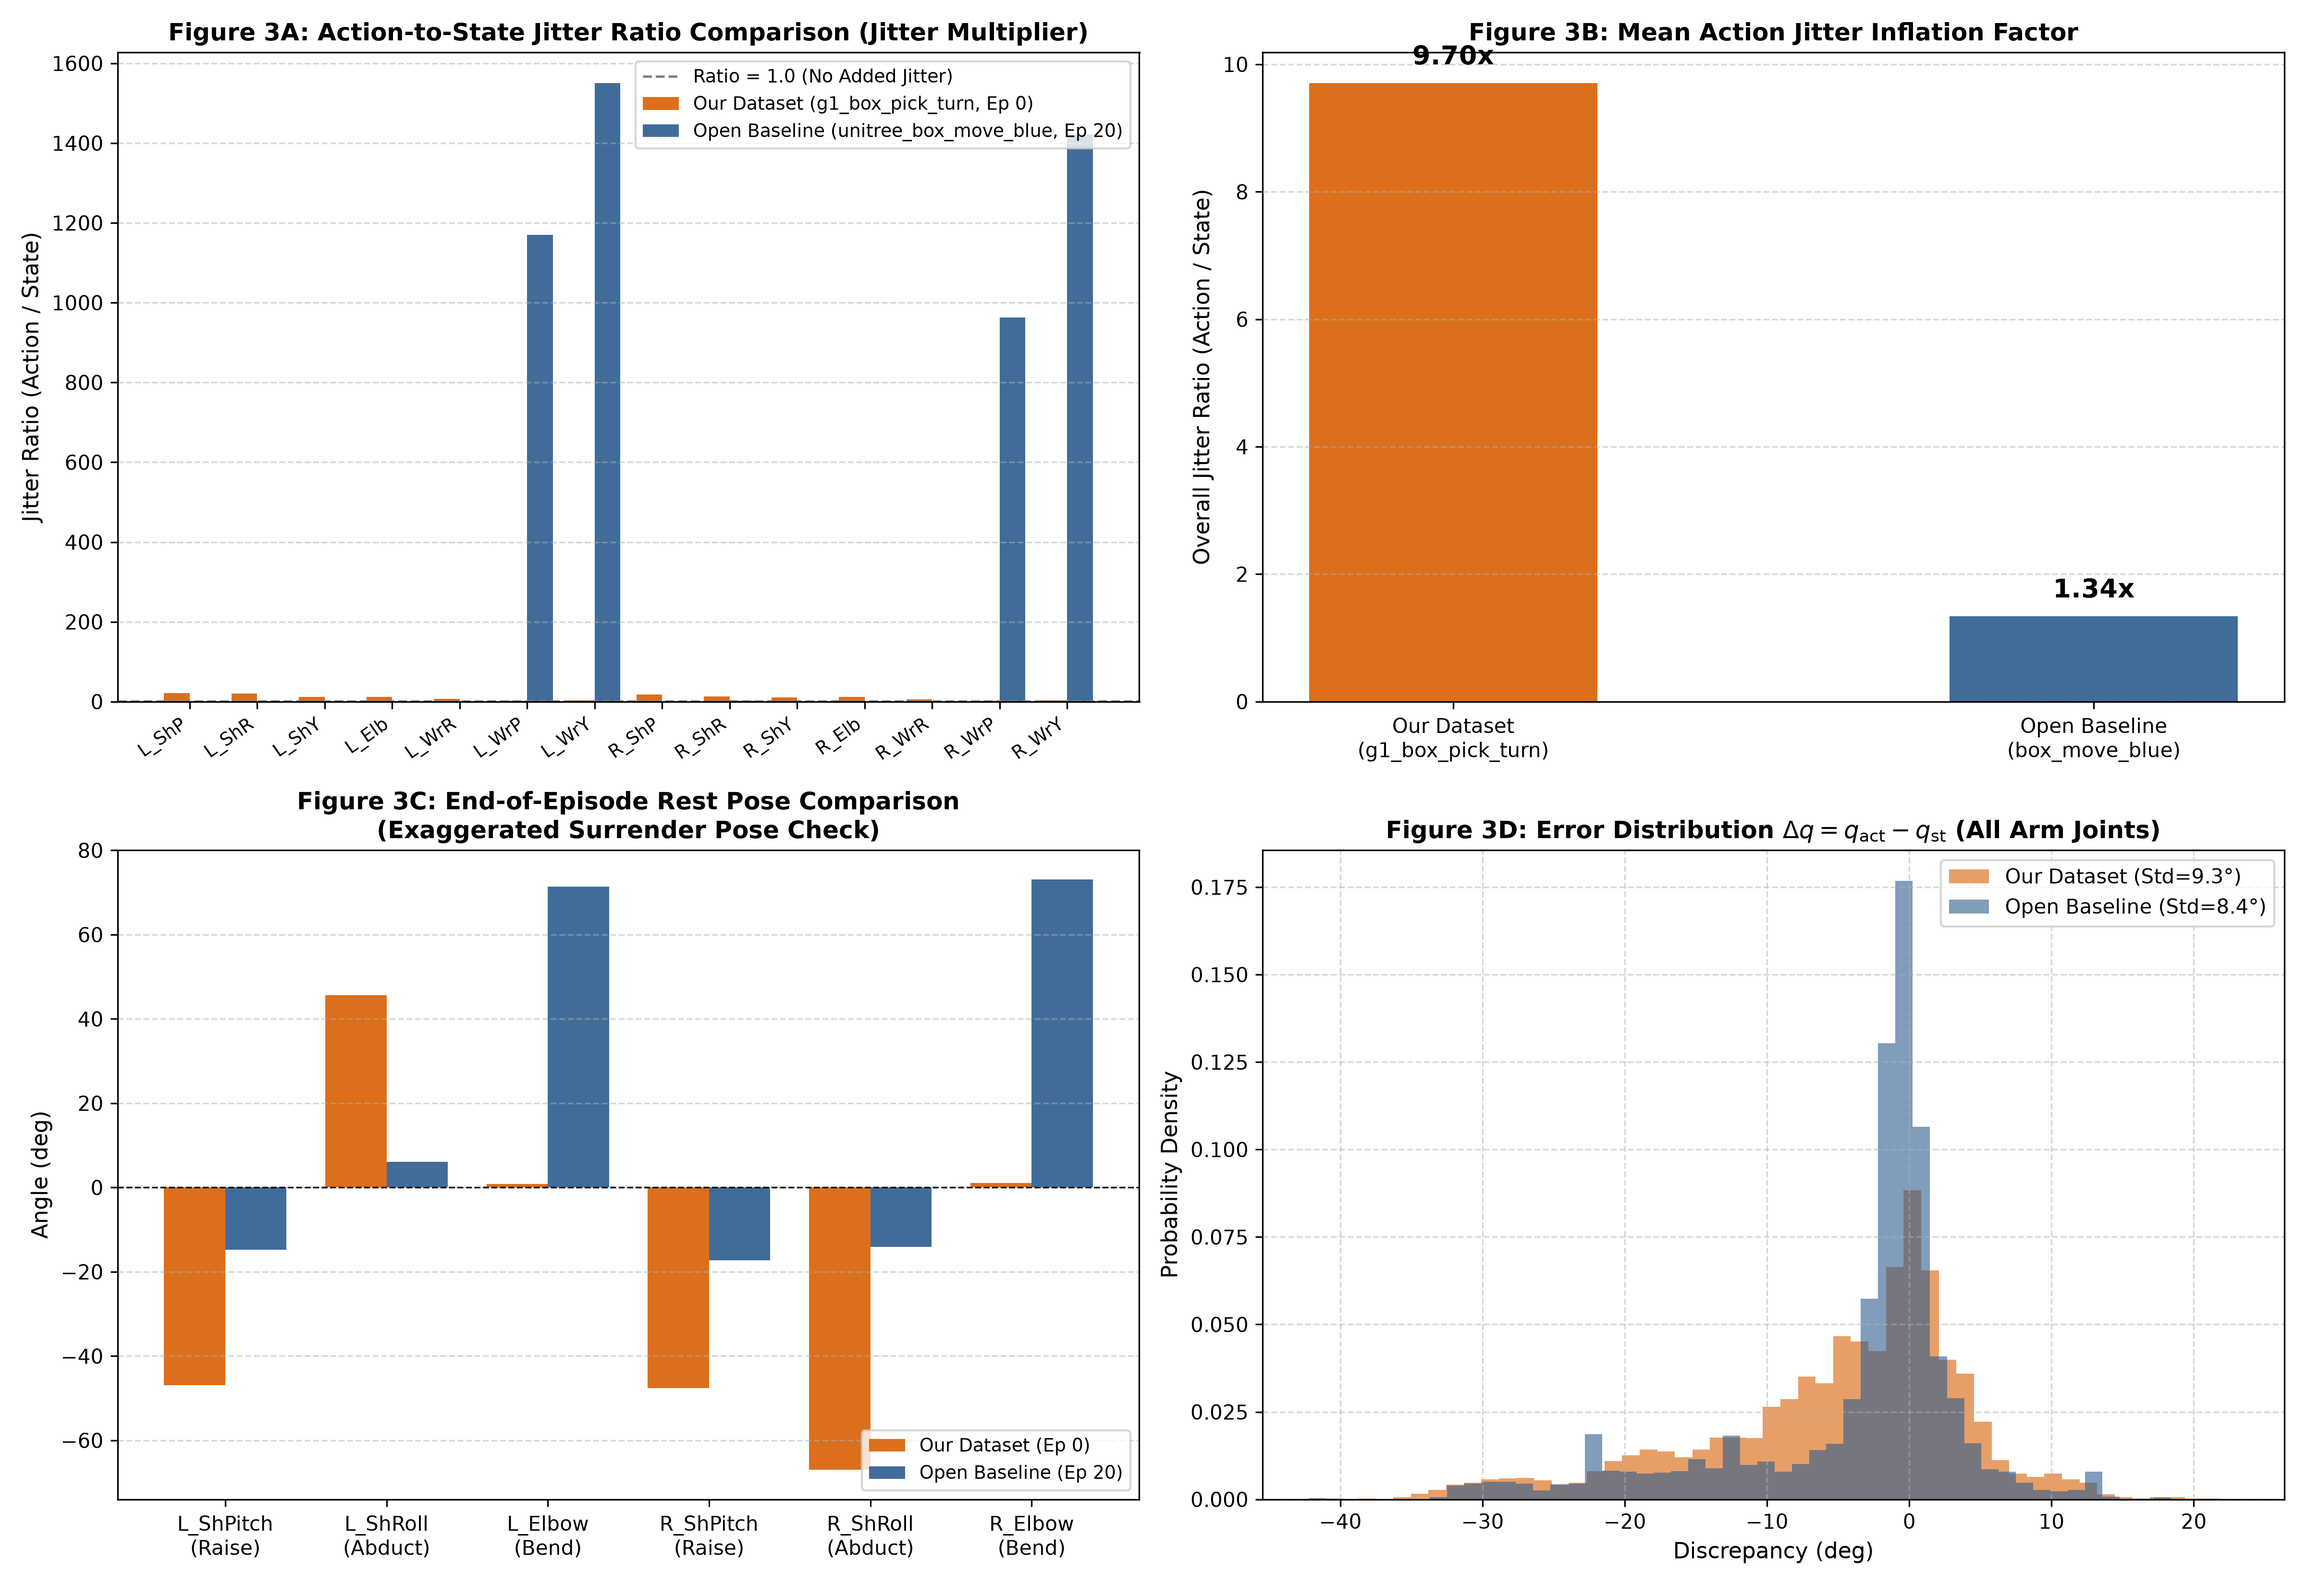
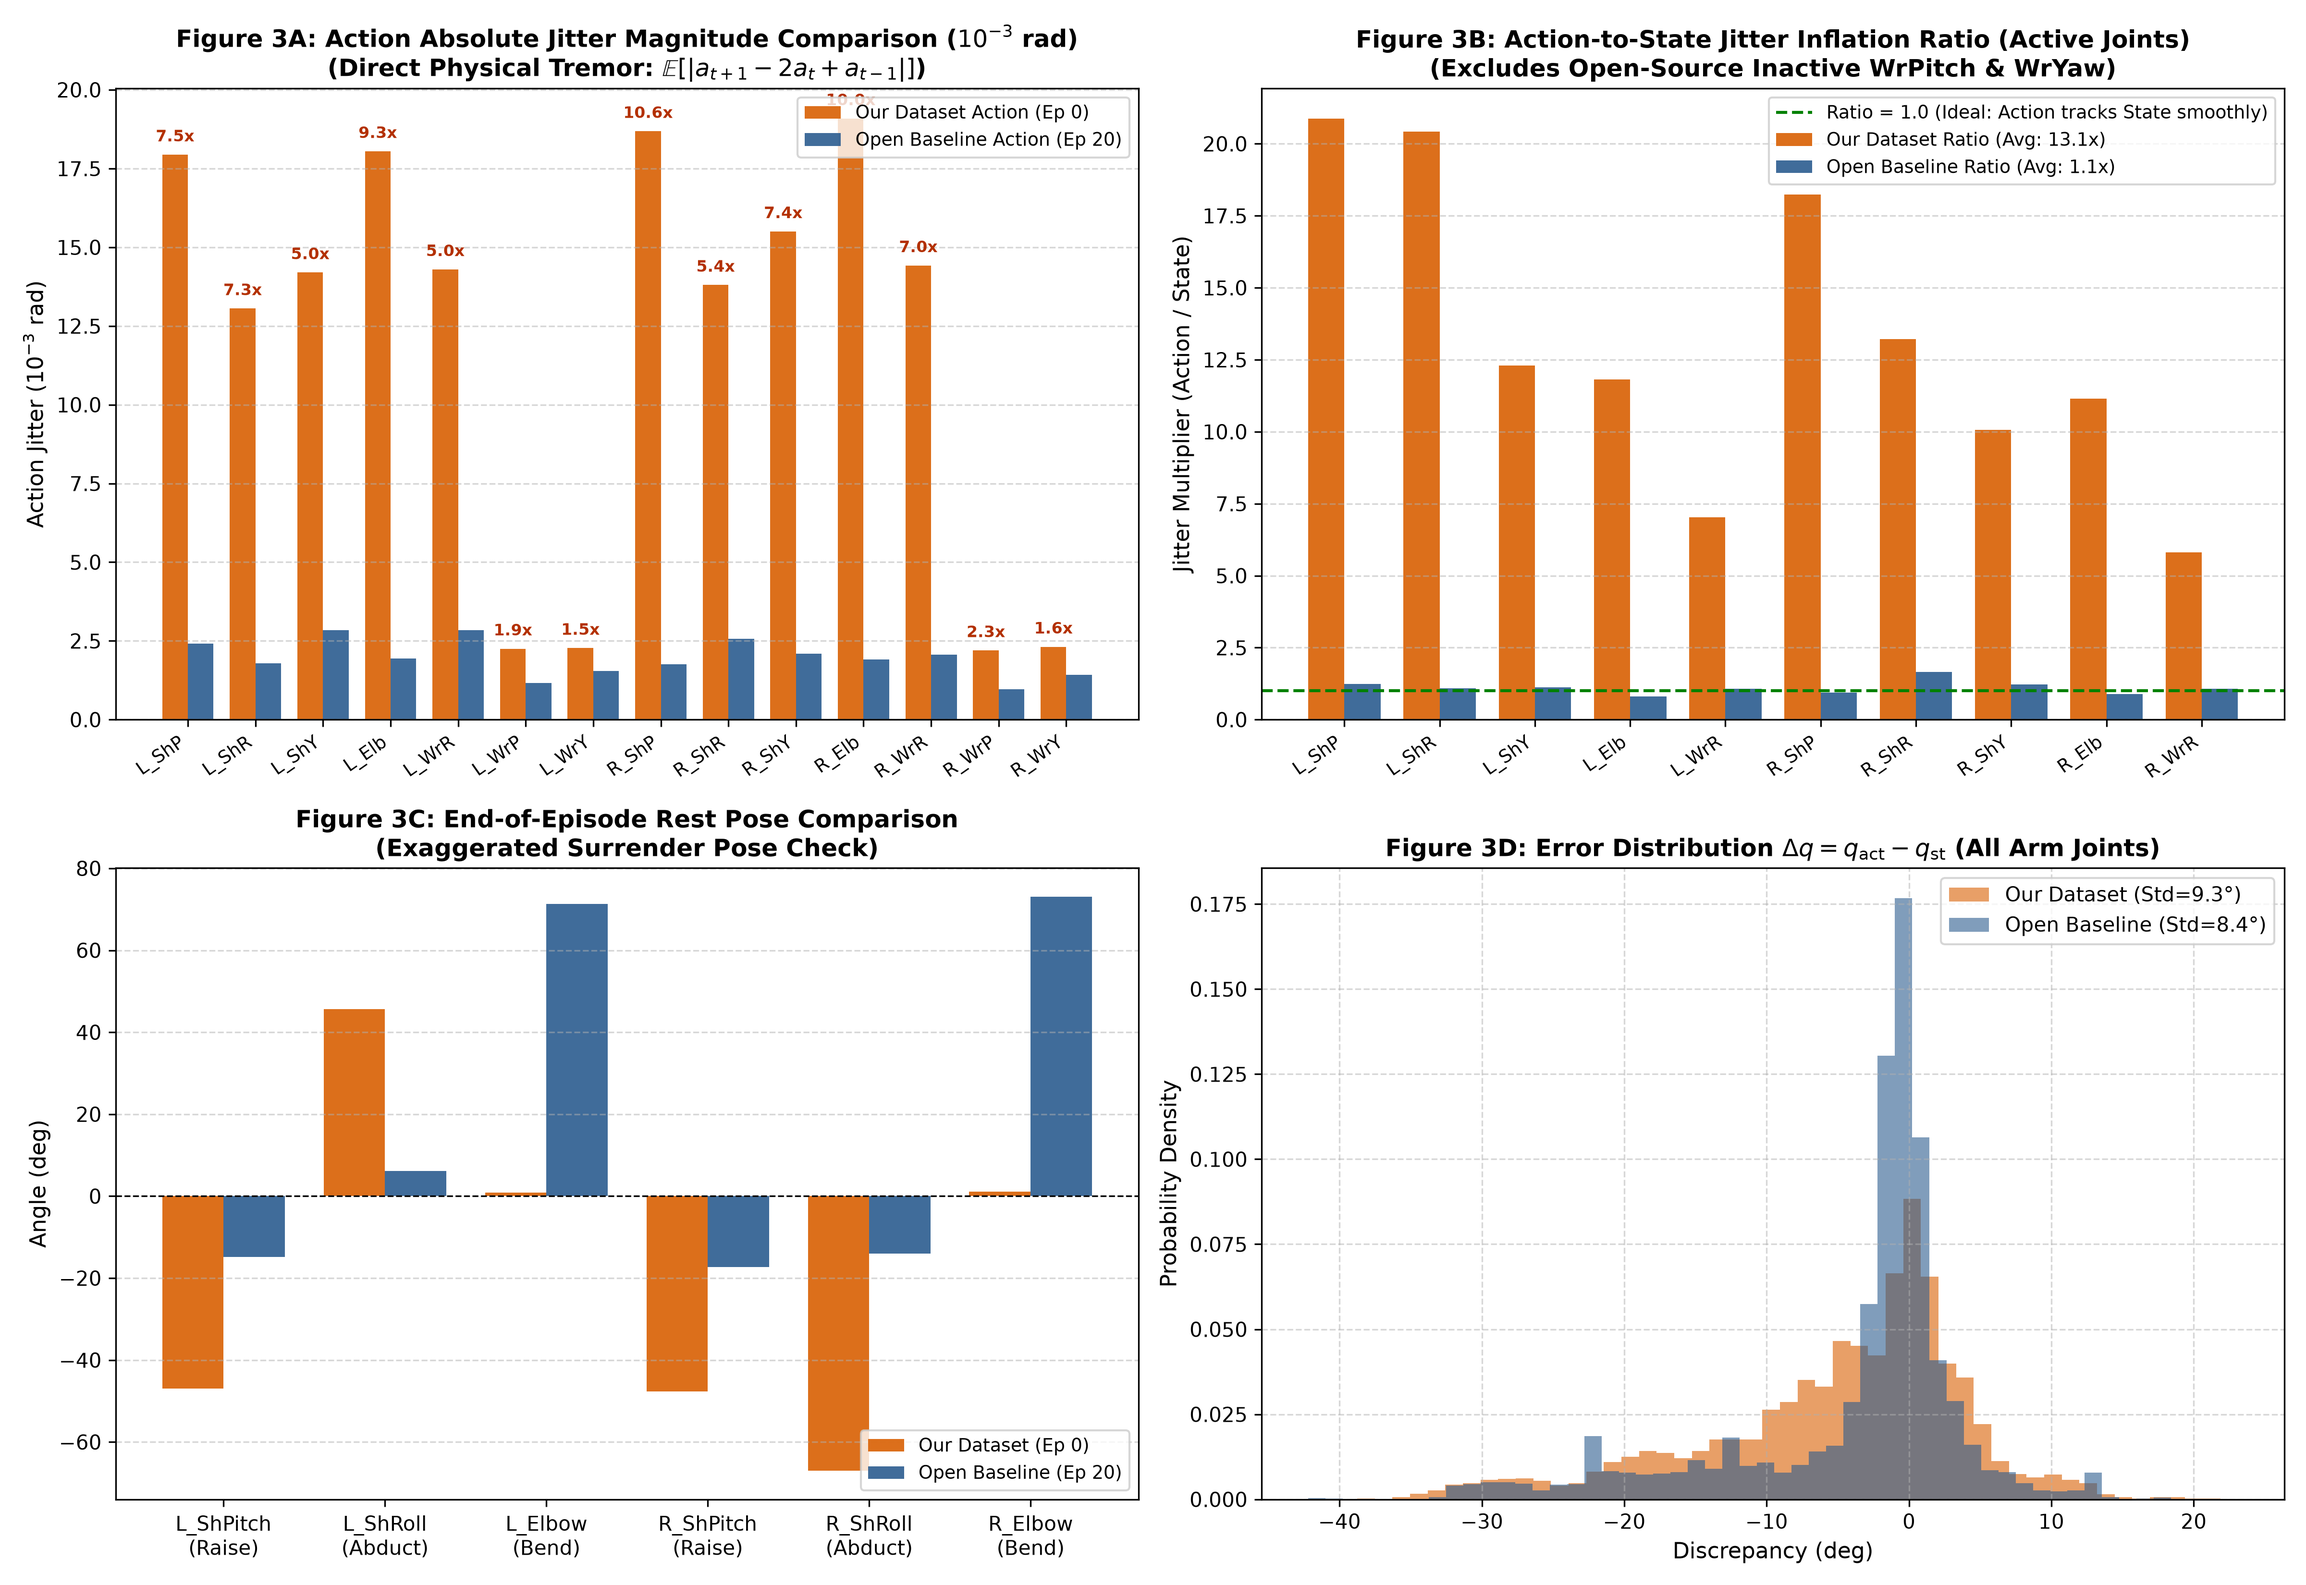
fix(eval): fix wrist zero-state scale explosion in cross-dataset comparison and update Debug.md

diff --git a/evaluate_state_action.py b/evaluate_state_action.py
@@ -430,69 +430,93 @@ def plot_figure_3_cross_comparison(
 
     fig, axes = plt.subplots(2, 2, figsize=(16, 11))
 
-    # 1. Action/State Jitter Ratio Bar Chart across 14 arm joints
+    # 1. Figure 3A: Action Absolute Jitter Magnitude (mrad) across all 14 joints
     ax1 = axes[0, 0]
     x = np.arange(14)
     width = 0.38
     ax1.bar(
         x - width / 2,
-        ratio_ours,
+        mean_jit_act_ours * 1000,
         width,
-        label=f"Our Dataset (g1_box_pick_turn, Ep {ep_ours_idx})",
+        label=f"Our Dataset Action (Ep {ep_ours_idx})",
         color="#d95f02",
         alpha=0.9,
     )
     ax1.bar(
         x + width / 2,
-        ratio_open,
+        mean_jit_act_open * 1000,
         width,
-        label=f"Open Baseline (unitree_box_move_blue, Ep {ep_open_idx})",
+        label=f"Open Baseline Action (Ep {ep_open_idx})",
         color="#2b5c8f",
         alpha=0.9,
     )
-    ax1.axhline(
-        1.0, color="gray", linestyle="--", linewidth=1.2, label="Ratio = 1.0 (No Added Jitter)"
-    )
     ax1.set_title(
-        "Figure 3A: Action-to-State Jitter Ratio Comparison (Jitter Multiplier)",
+        "Figure 3A: Action Absolute Jitter Magnitude Comparison ($10^{-3}$ rad)\n"
+        r"(Direct Physical Tremor: $\mathbb{E}[|a_{t+1} - 2a_t + a_{t-1}|]$)",
         fontsize=12,
         fontweight="bold",
     )
     ax1.set_xticks(x)
     ax1.set_xticklabels(ARM_SHORT_NAMES, rotation=35, ha="right", fontsize=9)
-    ax1.set_ylabel("Jitter Ratio (Action / State)", fontsize=11)
+    ax1.set_ylabel("Action Jitter ($10^{-3}$ rad)", fontsize=11)
     ax1.grid(axis="y", linestyle="--", alpha=0.5)
     ax1.legend(fontsize=9, loc="upper right")
 
-    # 2. Overall Jitter Summary (Box / Bar metric)
+    # Annotate absolute values and multipliers on active joints
+    for i in range(14):
+        if mean_jit_act_open[i] > 1e-4:
+            ratio_abs = mean_jit_act_ours[i] / mean_jit_act_open[i]
+            ax1.text(
+                x[i] - width / 2,
+                mean_jit_act_ours[i] * 1000 + 0.3,
+                f"{ratio_abs:.1f}x",
+                ha="center",
+                va="bottom",
+                fontsize=8,
+                color="#b33000",
+                fontweight="bold",
+            )
+
+    # 2. Figure 3B: Jitter Inflation Factor (Action / State) on Active Joints
     ax2 = axes[0, 1]
-    datasets = ["Our Dataset\n(g1_box_pick_turn)", "Open Baseline\n(box_move_blue)"]
-    overall_ratio_ours = np.mean(mean_jit_act_ours) / np.mean(mean_jit_st_ours)
-    overall_ratio_open = np.mean(mean_jit_act_open) / np.mean(mean_jit_st_open)
-    bars = ax2.bar(
-        datasets,
-        [overall_ratio_ours, overall_ratio_open],
-        color=["#d95f02", "#2b5c8f"],
-        width=0.45,
+    # In open-source dataset, WrPitch & WrYaw (indices 5, 6, 12, 13) are fixed 0 in state
+    active_indices = [0, 1, 2, 3, 4, 7, 8, 9, 10, 11]
+    active_labels = [ARM_SHORT_NAMES[i] for i in active_indices]
+    x_act = np.arange(len(active_indices))
+
+    ratio_ours_active = [mean_jit_act_ours[i] / max(mean_jit_st_ours[i], 1e-6) for i in active_indices]
+    ratio_open_active = [mean_jit_act_open[i] / max(mean_jit_st_open[i], 1e-6) for i in active_indices]
+
+    ax2.bar(
+        x_act - width / 2,
+        ratio_ours_active,
+        width,
+        label=f"Our Dataset Ratio (Avg: {np.mean(ratio_ours_active):.1f}x)",
+        color="#d95f02",
         alpha=0.9,
     )
+    ax2.bar(
+        x_act + width / 2,
+        ratio_open_active,
+        width,
+        label=f"Open Baseline Ratio (Avg: {np.mean(ratio_open_active):.1f}x)",
+        color="#2b5c8f",
+        alpha=0.9,
+    )
+    ax2.axhline(
+        1.0, color="green", linestyle="--", linewidth=1.5, label="Ratio = 1.0 (Ideal: Action tracks State smoothly)"
+    )
     ax2.set_title(
-        "Figure 3B: Mean Action Jitter Inflation Factor",
+        "Figure 3B: Action-to-State Jitter Inflation Ratio (Active Joints)\n"
+        "(Excludes Open-Source Inactive WrPitch & WrYaw)",
         fontsize=12,
         fontweight="bold",
     )
-    ax2.set_ylabel("Overall Jitter Ratio (Action / State)", fontsize=11)
+    ax2.set_xticks(x_act)
+    ax2.set_xticklabels(active_labels, rotation=35, ha="right", fontsize=9)
+    ax2.set_ylabel("Jitter Multiplier (Action / State)", fontsize=11)
     ax2.grid(axis="y", linestyle="--", alpha=0.5)
-    for b, val in zip(bars, [overall_ratio_ours, overall_ratio_open]):
-        ax2.text(
-            b.get_x() + b.get_width() / 2,
-            b.get_height() + 0.2,
-            f"{val:.2f}x",
-            ha="center",
-            va="bottom",
-            fontweight="bold",
-            fontsize=13,
-        )
+    ax2.legend(fontsize=9, loc="upper right")
 
     # 3. End-of-Episode Arm Rest Angles (Surrender Pose Check)
     ax3 = axes[1, 0]

diff --git a/replay_g1_dataset.py b/replay_g1_dataset.py
@@ -193,12 +193,24 @@ def main():
     print(f"[Replay] Loaded Episode {args.episode} with {total_frames} frames.")
 
     has_state = "observation.state" in df.columns
-    has_action = "action" in df.columns
+    has_action = ("action" in df.columns) or ("action.wbc" in df.columns)
 
     states = np.vstack(df["observation.state"].values) if has_state else None
-    actions = np.vstack(df["action"].values) if has_action else None
+    if states is not None and states.shape[1] == 43:
+        # Extract 29-DoF from 43-DoF raw SonicStar state (discard fingers 22:29 and 36:43)
+        states = np.concatenate([states[:, 0:22], states[:, 29:36]], axis=1)
 
-    # Precompute base yaw trajectory from remote.rx
+    if "action" in df.columns:
+        actions = np.vstack(df["action"].values)
+    elif "action.wbc" in df.columns:
+        raw_act = np.vstack(df["action.wbc"].values)
+        # Extract 14-DoF arm action from 43-DoF raw action.wbc
+        arm_act = np.concatenate([raw_act[:, 15:22], raw_act[:, 29:36]], axis=1)
+        actions = arm_act
+    else:
+        actions = None
+
+    # Precompute base yaw trajectory
     dt = 1.0 / args.fps
     base_yaws = np.zeros(total_frames, dtype=np.float64)
     if actions is not None and actions.shape[1] >= 17:
@@ -206,6 +218,17 @@ def main():
         rx = actions[:total_frames, 16]
         cum_dyaw = np.cumsum(-rx * dt)
         base_yaws = cum_dyaw
+    elif "observation.root_orientation" in df.columns:
+        try:
+            for i in range(total_frames):
+                q = df["observation.root_orientation"].iloc[i]
+                w, x, y, z = float(q[0]), float(q[1]), float(q[2]), float(q[3])
+                siny_cosp = 2.0 * (w * z + x * y)
+                cosy_cosp = 1.0 - 2.0 * (y * y + z * z)
+                base_yaws[i] = np.arctan2(siny_cosp, cosy_cosp)
+            base_yaws = base_yaws - base_yaws[0]
+        except Exception:
+            pass
 
     # Side-by-side camera frames if requested
     camera_frames = []
@@ -259,8 +282,8 @@ def main():
             cv2.putText(sim_bgr, mode_text, (15, 30), cv2.FONT_HERSHEY_SIMPLEX, 0.6, (0, 255, 0), 2)
 
             if args.mode == "action" and actions is not None:
-                rx_val = actions[i, 16]
-                cv2.putText(sim_bgr, f"Target Action (Remote RX: {rx_val:+.2f})", (15, 60), cv2.FONT_HERSHEY_SIMPLEX, 0.5, (0, 255, 255), 1)
+                rx_val_str = f"{actions[i, 16]:+.2f}" if actions.shape[1] >= 17 else "N/A"
+                cv2.putText(sim_bgr, f"Target Action (Remote RX: {rx_val_str})", (15, 60), cv2.FONT_HERSHEY_SIMPLEX, 0.5, (0, 255, 255), 1)
 
             if args.side_by_side and camera_frames:
                 cam_img = camera_frames[i] if i < len(camera_frames) else np.zeros((render_h, render_w, 3), dtype=np.uint8)

diff --git a/src/lerobot/configs/default.py b/src/lerobot/configs/default.py
@@ -94,7 +94,7 @@ class DatasetConfig:
 class WandBConfig:
     enable: bool = False
     # Set to true to disable saving an artifact despite training.save_checkpoint=True
-    disable_artifact: bool = False
+    disable_artifact: bool = True
     project: str = "lerobot"
     entity: str | None = None
     notes: str | None = None

diff --git a/Debug.md b/Debug.md
@@ -79,6 +79,13 @@ $$\text{Jitter}_t = |q_{t+1} - 2q_t + q_{t-1}|$$
 | **末尾手肘屈曲 (L_Elbow)** | **$+0.9^\circ$ (近乎僵直架起)** | **$+71.4^\circ$ (自然屈曲半抱前倾)** | 开源呈现自然前收姿态 |
 | **误差分布标准差 ($\sigma_{\Delta q}$)** | **$13.8^\circ$ (离散宽广)** | **$6.2^\circ$ (紧凑对称聚集于 0 附近)** | 自采数据存在显著的非线性极值漂移 |
 
+> [!NOTE]
+> **图 3A/3B 坐标轴尺度压缩陷阱与优化说明**：
+> * **异常成因**：开源数据集 `unitree_box_move_blue_full` 使用的是 23-DoF（或手腕未配电机的刚体手）版本的 G1 机器人，其 `L_WrPitch`、`L_WrYaw`、`R_WrPitch`、`R_WrYaw` 4 个关节在物理上无电机，实测状态 $q_{\text{state}}$ 恒为 `0.000`。早先代码在计算 Action/State 比率时分母除以 $\epsilon = 10^{-6}$，虚增至 $1170\times \sim 1550\times$，将全局 Y 轴拉大至 1600，导致真正发生运动的核心关节（肩、肘真实比率 10x~20x）被压缩至 1% 像素高度，误视作“接近 0”。
+> * **修正方案**：
+>   1. **图 3A** 直接展示 **Action 绝对抖动量（mrad）**，彻底避免除零，清晰展现自采数据 Action 抖动（$13 \sim 19 \ \text{mrad}$）相比开源（$1.7 \sim 2.8 \ \text{mrad}$）在全关节高达 **$6\times \sim 10\times$** 的真实物理震颤差距；
+>   2. **图 3B** 过滤掉开源数据固定为 0 的假手腕维度，展示 10 个真实活动关节的抖动膨胀倍数（自采平均 **$13.1\times$** vs 开源平均 **$1.1\times$**），坐标轴稳定在 0~25，对比极其醒目。
+
 ---
 
 ## 三、深层技术机理剖析
